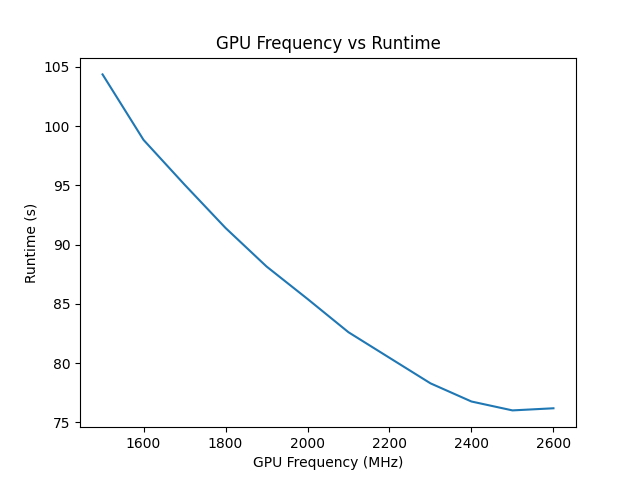
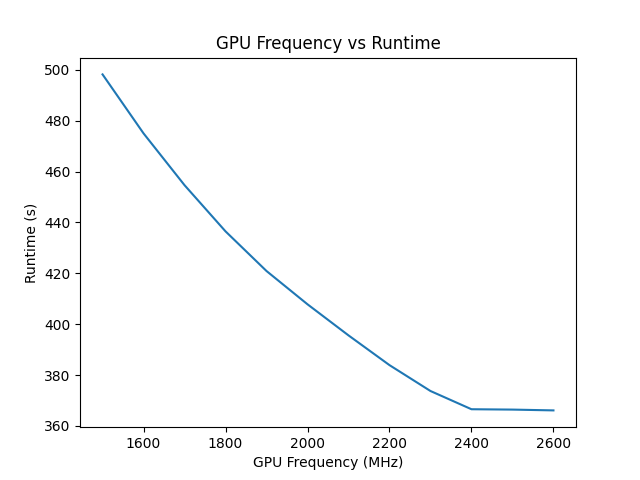
long measurement

diff --git a/llm/experiments/llm_energy.py b/llm/experiments/llm_energy.py
@@ -180,7 +180,7 @@ def measure_power_loop(queue, interval=0.5):
         time.sleep(interval)
 
 def benchmark():    
-    training_steps = 2000
+    training_steps = 10000
     clockspeed = []
     all_runtimes = []
     all_joules = []